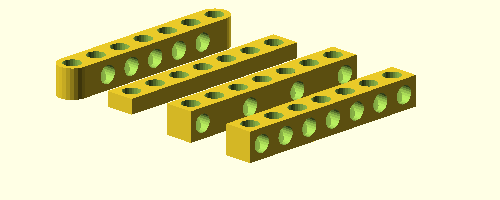
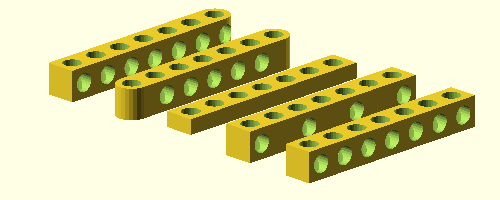
append mix_arm part

diff --git a/README.rst b/README.rst
@@ -50,8 +50,9 @@ arm
 
   module cube_arm(size, h=1, side_holes=true, skip=[], skip_side=[]);
   module cylinder_arm(holes, h=1, side_holes=true, skip=[], skip_side=[]);
+  module mix_arm(holes, h=1, side_holes=true, skip=[], skip_side=[]);
 
-Arm modules are the base modules. They generate plain part with long ``site*unit`` with holes. Center of arm is in center of first bit.
+Arm modules are the base modules. They generate plain part with long ``site*unit`` with holes. Center of arm is in center of first bit. Special ``mix_arm`` start as a ``cube`` but end as ``cylinder``.
 
 size : number
   Length of part in units.
